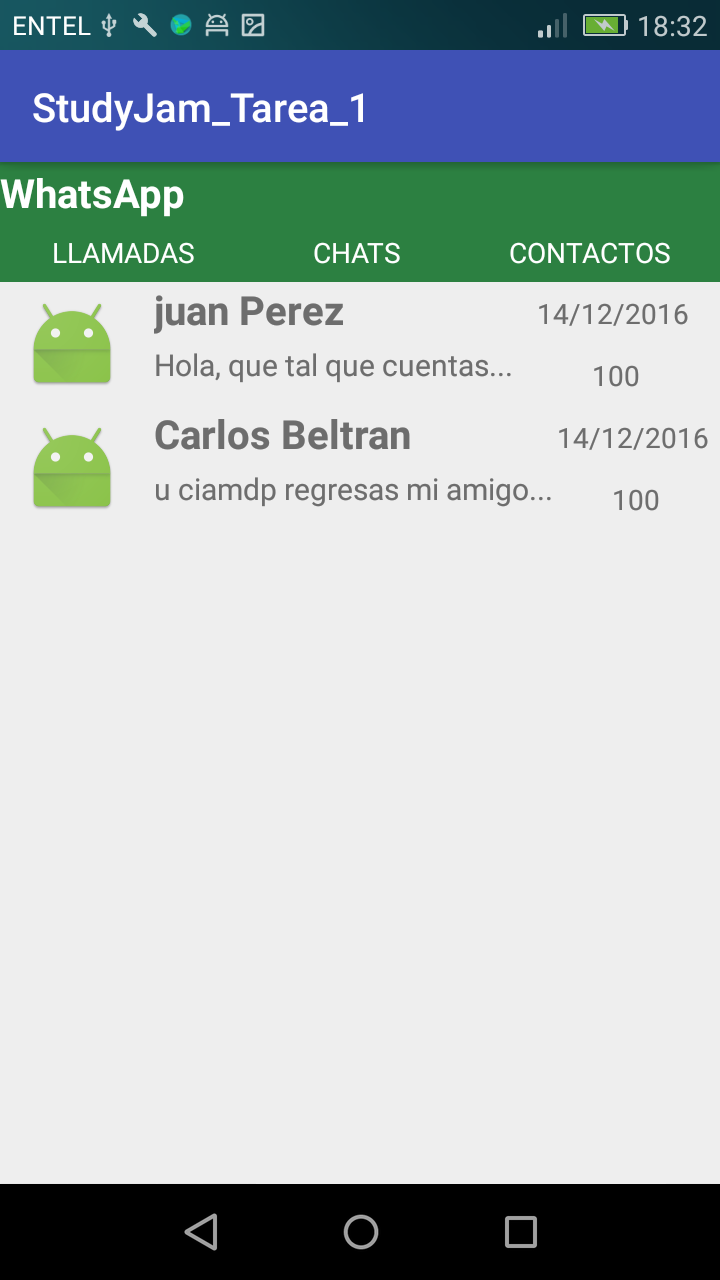
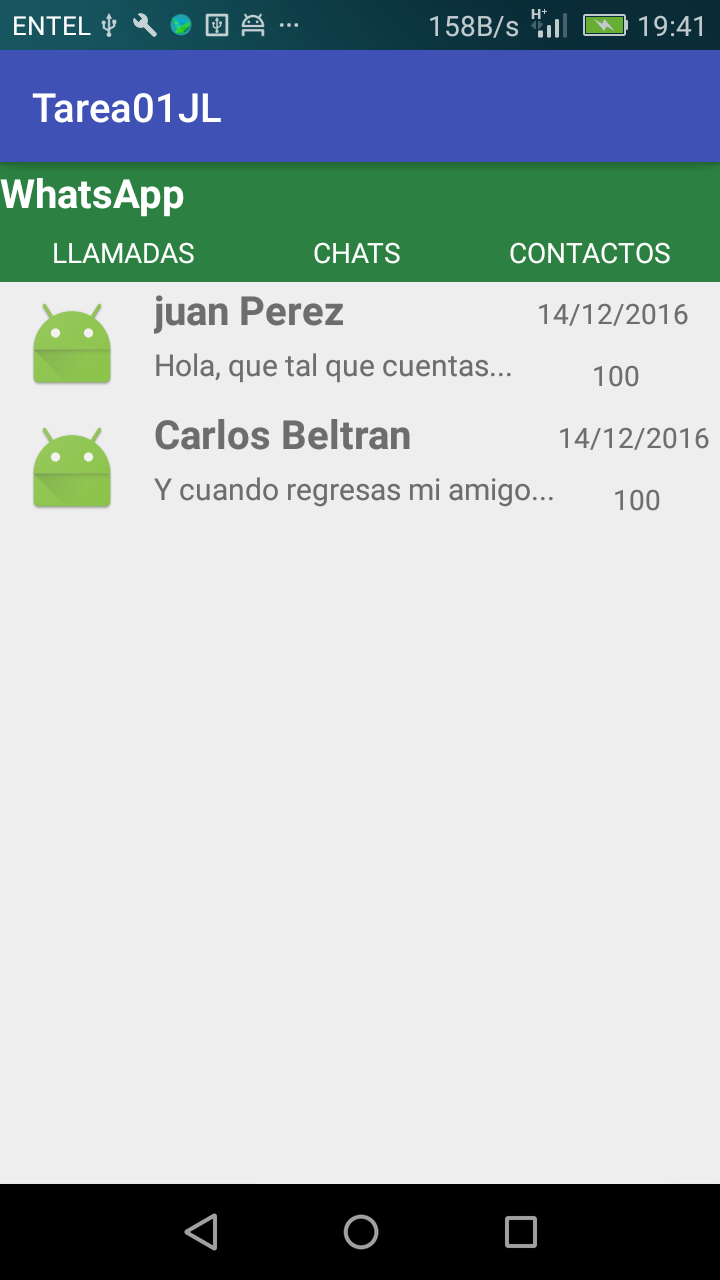
Modifique el activity_main segun el modelo que corresponde a Whatsapp y adicione un color y capture la pantalla de la ejecucion

diff --git a/README.md b/README.md
@@ -1,18 +1,23 @@
 Titulo
 =======
-Este es un ejemplo basico de descripcion de Github
+Esta aplicacion es un ejemplo basico  correspondiente a la Tarea 1 de vistas en Android, llevado a cabo dentro del contenido del **Study Jam Android Development for Beginners** por el [GDG Android Bolivia.](http://www.gdg.androidbolivia.com/) 2016
+
+Autor
+----
+Jose Luis Terrazas B.
 
 Requisitos
 ----
 * Android Studio 2.2.2
 * Gradle 2.2.2
+* minSdkVersion 15
 
 Captura
 ---
 
 <div aling="center">
     <center>
-        <img src="/img/captura.png" whith="300">
+        <img src="/img/WhatsappJL01.png" whith="300">
     </center>
 </div>
 
